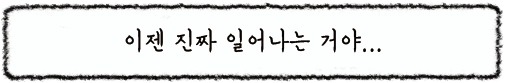
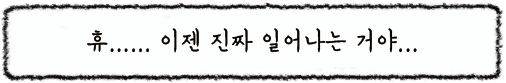
12.07_1
message, button

Changed region(s): [[0.1482, 0.3373, 0.83, 0.6506]]

diff --git a/stage2.js b/stage2.js
@@ -32,26 +32,26 @@ ready() {
     this.text1.push(' ');
     this.text1.push('근데 도저히 일어날 힘이 없어...');
     this.text1.push('맞아... 그치만 못 일어나겠어 정말...');
-    this.text1.push('아... 그냥 침대 밑으로 빨려들어가 사라지고 싶다.');
+    this.text1.push('몰라... 그냥 침대 밑으로 조용히 가라앉고 싶어.');
     this.text1.push('그러게... 나 정말 제정신이 아닌 것 같아...');
     this.text1.push('그래 이것만 보고...');
     this.text1.push('이것만......');
-    this.text1.push('조급해하지마. 일단 이불이라도 걷었으니까...');
+    this.text1.push('조급해하지말자. 일단 이불이라도 걷었으니까...');
     this.text1.push('음... 급하게 일어나니 어지러운데 다시 누울까...');
-    this.text1.push('근데 내가 과연 떡볶이를 먹을 자격이 있나...');
+    this.text1.push('그나저나... 내가 지금 떡볶이를 먹을 자격이 있나...');
     this.text1.push('그래, 가자.');
     //
     this.text2.push(' ');
     this.text2.push('아... 그치만 씻어야되는데...');
     this.text2.push('아니, 넌 아무래도 그럴 마음이 없는 것 같아.');
     this.text2.push('그래서 어제도 그렇게 1시간을 더 누워있었지.');
-    this.text2.push('핑계 대지마 제발. 넌 그냥 게으를 뿐이야.');
-    this.text2.push('아무래도 미쳤구나 너... 이럴거면 왜 살지?');
-    this.text2.push('근데 그럼 슬퍼해줄 사람은 있을까.');
-    this.text2.push('안되겠다. 넌 이불 덮고 있을 자격도 없어.');
+    this.text2.push('아니, 핑계 대지마 제발. 넌 그냥 게으를 뿐이야.');
+    this.text2.push('그럼 평생 누워있을거야? 아주 이대로 죽으려고?');
+    this.text2.push('근데 그럼 과연 슬퍼해줄 사람은 있을까.');
+    this.text2.push('휴... 안되겠다. 넌 이불 덮고 있을 자격도 없어.');
     this.text2.push('제발. 천장만 본다고 달라지는건 아무것도 없어.');
     this.text2.push('안돼. 제발 1분만이라도 인내라는 걸 좀 해봐.');
-    this.text2.push('몰라. 일단 먹고 생각할래.');
+    this.text2.push('에잇, 몰라. 일단 먹고 생각할래.');
     //
     afterImg = bed3;
     //구름 제작
@@ -110,7 +110,7 @@ mousePressed2() {
     this.textRight = false;
 
     if (this.buttonNum < 9) {
-      this.timedue = 8;
+      this.timedue = 6;
     } else if (this.buttonNum == 9)
       this.timedue = 2;
 
@@ -123,7 +123,7 @@ mousePressed2() {
     this.textLeft = false;
 
     if (this.buttonNum < 9) {
-      this.timedue = 8;
+      this.timedue = 6;
     } else if (this.buttonNum == 9)
       this.timedue = 2;
 
@@ -149,8 +149,8 @@ messageShowLeft() {
     fill(100);
     textSize(25);
     textAlign(LEFT);
-    textFont(momletter);
-    text(this.text1[this.buttonNum], 434, 61);
+    textFont(momletterB);
+    text(this.text1[this.buttonNum], 444, 79);
 }
 
 messageShowRight() {
@@ -158,8 +158,8 @@ messageShowRight() {
   fill(100);
   textSize(25);
   textAlign(LEFT);
-  textFont(momletter);
-  text(this.text2[this.buttonNum], 434, 61);
+  textFont(momletterB);
+  text(this.text2[this.buttonNum], 444, 79);
 }
 drawStage2() {
   background(191, 228, 242);
@@ -191,11 +191,11 @@ drawStage2() {
       fill(100);
       textSize(25);
       textAlign(LEFT);
-      textFont(momletter);
+      textFont(momletterB);
       if(this.textLeft) {
-      text("그래, 가자.", 434, 61);
+      text("그래, 가자.", 444, 79);
     } else if (this.textRight) {
-      text("몰라. 일단 먹고 생각할래.", 434, 61);
+      text("에잇, 몰라. 일단 먹고 생각할래.", 444, 79);
     }
 
       //if(this.countdown()) {

diff --git a/button.js b/button.js
@@ -2,7 +2,7 @@ class Button {
   constructor(x, y, _image) {
     this.x = x;
     this.y = y;
-    this.tint = 100;
+    this.tint = 255;
     this.on = true;
     this.img = _image;
   }
@@ -10,7 +10,7 @@ class Button {
   if(this.on) {
   image(this.img, this.x, this.y);
   if(this.contains())
-   this.tint = 100;
+   this.tint = 255;
   else
    this.tint = 200;
   }
